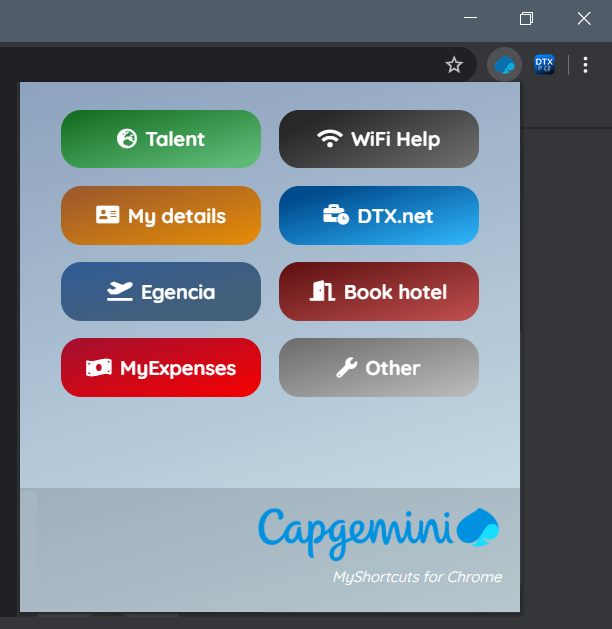
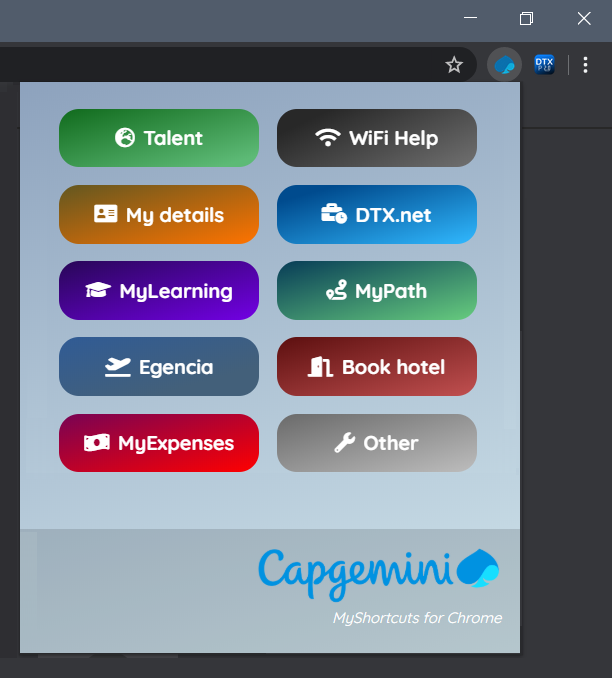
Rearranged menu and added some new options

diff --git a/menuJSON.js b/menuJSON.js
@@ -25,7 +25,7 @@ menus = {
 		{
 			"text": "My details",
 			"icon": "fa-address-card",
-			"background": "linear-gradient(164deg, rgba(152,86,45,1) 0%, rgba(230,141,6,1) 100%)",
+			"background": "linear-gradient(164deg, rgba(98,87,32,1) 0%, rgba(255,115,0,1) 100%)",
 			"type": "url",
 			"target": "https://corporatedirectory.capgemini.com/MyDirectory/portals/std/index-portal.jsp?selresource=&resource=myDetails",
 		},
@@ -35,6 +35,20 @@ menus = {
 			"background": "linear-gradient(164deg, rgba(0,75,142,1) 15%, rgba(49,185,255,1) 100%)",
 			"type": "url",
 			"target": "https://missbhadtx03.corp.capgemini.com/DTX.NET/Summary.aspx",
+		},
+		{
+			"text": "MyLearning",
+			"icon": "fa-graduation-cap",
+			"background": "linear-gradient(164deg, rgba(40,7,87,1) 0%, rgba(114,0,228,1) 100%)",
+			"type": "url",
+			"target": "https://mylearning.capgemini.com/",
+		},
+		{
+			"text": "MyPath",
+			"icon": "fa-route",
+			"background": "linear-gradient(164deg, rgba(7,60,87,1) 0%, rgba(103,204,126,1) 100%)",
+			"type": "url",
+			"target": "https://myconnect.capgemini.com/sap/bc/ui5_ui5/sap/zmypath/index.html?sap-client=100",
 		},
 		{
 			"text": "Egencia",
@@ -53,7 +67,7 @@ menus = {
 		{
 			"text": "MyExpenses",
 			"icon": "fa-money-bill-wave",
-			"background": "linear-gradient(164deg, rgba(162,17,49,1) 0%, rgba(246,0,0,1) 100%)",
+			"background": "linear-gradient(164deg, rgba(120,3,84,1) 0%, rgba(255,0,0,1) 100%)",
 			"type": "url",
 			"target": "https://eu1.concursolutions.com/expense/client/default.asp",
 		},
@@ -79,13 +93,6 @@ menus = {
 			"background": "linear-gradient(164deg, rgba(147,49,15,1) 0%, rgba(242,60,0,1) 100%)",
 			"type": "url",
 			"target": "https://selfportal.capgemini.com/",
-		},
-		{
-			"text": "MyLearning",
-			"icon": "fa-graduation-cap",
-			"background": "linear-gradient(164deg, rgba(40,7,87,1) 0%, rgba(114,0,228,1) 100%)",
-			"type": "url",
-			"target": "https://mylearning.capgemini.com/",
 		},
 		{
 			"text": "365 Web",

diff --git a/options.css b/options.css
@@ -2,12 +2,13 @@
 	box-sizing: border-box;
 	margin: 0;
 	padding: 0;
+	user-select: none;
 }
 body {
 	background: linear-gradient(164deg, rgba(141,162,189,1) 0%, rgba(209,229,236,1) 100%);
 	font-family: 'Quicksand', sans-serif;
 	width: 400px;
-	min-height: 410px;
+	min-height: 440px;
 	height: auto;
 	padding-bottom: 8px;
 }
